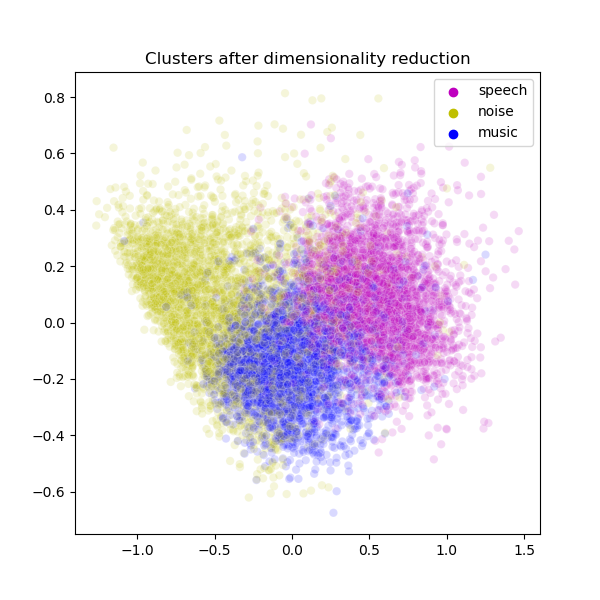
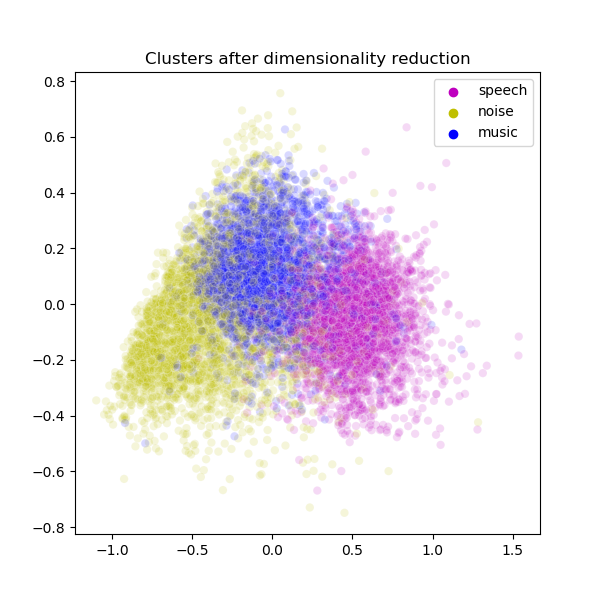
change clusterization method

diff --git a/main.py b/main.py
@@ -9,8 +9,8 @@ import seaborn as sns
 import matplotlib.pyplot as plt
 from sklearn import metrics
 from sklearn.decomposition import PCA
-from sklearn.cluster import KMeans
 from sklearn.preprocessing import MinMaxScaler
+from sklearn.mixture import BayesianGaussianMixture
 
 
 def list_audiofiles(path):
@@ -161,9 +161,10 @@ if __name__ == '__main__':
     scaler = MinMaxScaler()
     prep_train = scaler.fit_transform(train)
 
-    km = KMeans(n_clusters=config.n_classes, n_init=200, max_iter=10000)
-    tr_predictions = km.fit_predict(prep_train)
-    te_predictions = km.predict(scaler.transform(test))
+    bgm = BayesianGaussianMixture(n_components=config.n_classes, tol=0.00001, covariance_type='tied', max_iter=10000)
+
+    tr_predictions = bgm.fit_predict(prep_train)
+    te_predictions = bgm.predict(scaler.transform(test))
 
     print(f"20 first predictions are\n {te_predictions[:20]}")
     print("Enter values for relabeling")
